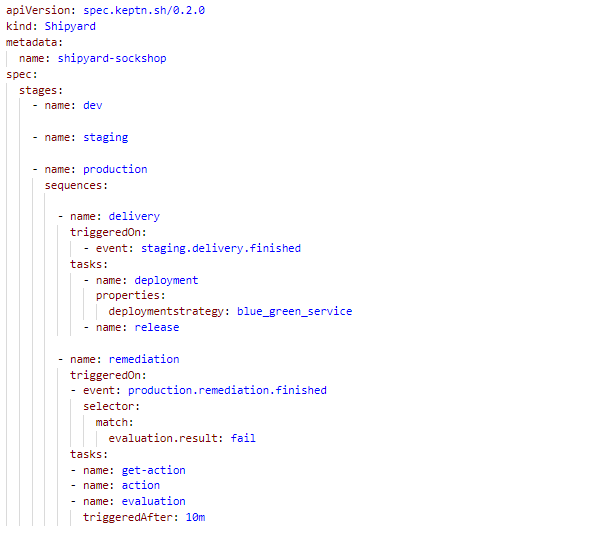
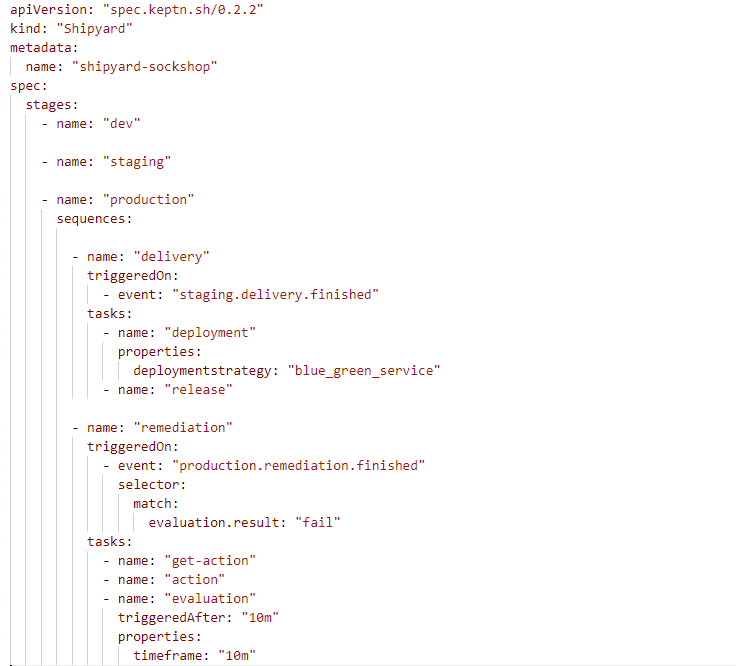
Upgrade instruction

Changed region(s): [[0.0, 0.0, 0.602, 1.0], [0.0903, 0.5993, 0.1204, 0.6292]]

diff --git a/content/docs/0.8.x/operate/upgrade/index.md b/content/docs/0.8.x/operate/upgrade/index.md
@@ -11,7 +11,7 @@ aliases:
 
 ## Upgrade from Keptn 0.8.2 to 0.8.3
 
-:warning: **Important:** Please update the Shipyard for each project that should have remediations enabled in a particular stage. The instructions are provided by *Step 2*. 
+:warning: **Important:** Please update the Shipyard for each project that should have remediations enabled in a particular stage. The instructions are provided in *Step 2*. 
 
 ### Step 1: Upgrade Keptn
 
@@ -60,11 +60,11 @@ before executing this command.
 1. Go to the Git repository and open the `shipyard.yaml` file for each project where you want to enable the remediation use-case.
 
 1. Copy-paste the following sequence to the stage, which should automatically remediate your problems:
-    *Remediation sequence for a `production` stage*
+    *Remediation sequence*
   ```
             - name: remediation
               triggeredOn: 
-              - event: production.remediation.finished
+              - event: [STAGE-NAME].remediation.finished
                 selector:
                   match:
                     evaluation.result: fail
@@ -73,11 +73,13 @@ before executing this command.
               - name: action
               - name: evaluation
                 triggeredAfter: "10m"
+                properties:
+                  timeframe: "10m"
   ```
 
-1. Please double-check the indentation of the remediation sequence. 
+1. Double-check the indentation of the remediation sequence. 
 
-1. Finally, set the name of your `triggeredOn` event to map the `stage` the sequence was added to:
+1. Finally, set the name of your `triggeredOn` event to map the `stage` the sequence was added to. If you added it, for example, to a stage called `production`, the event looks as follows: `production.remediation.finished`
 
 **TODO** Update of image to use a working one
 
@@ -85,7 +87,6 @@ before executing this command.
   link="./assets/remediation_sequence.png"
   caption="Remediation sequence"
   width="500px">}}
-
 
 
 ## Upgrade from Keptn 0.8.1 to 0.8.2
